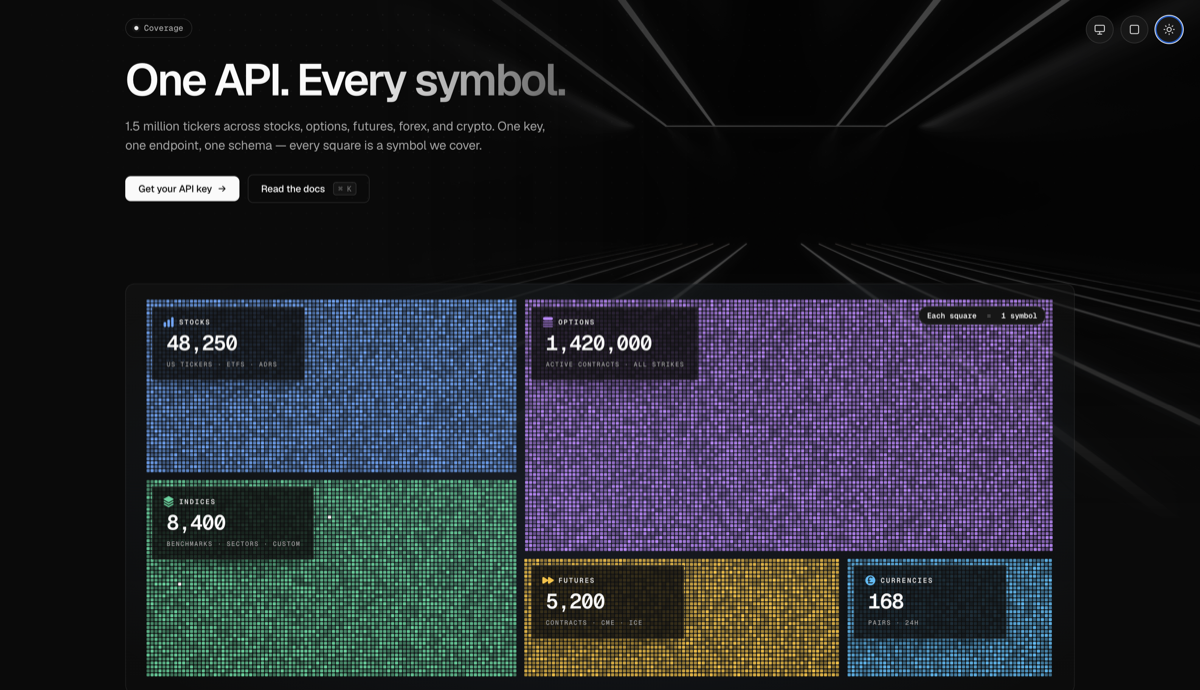
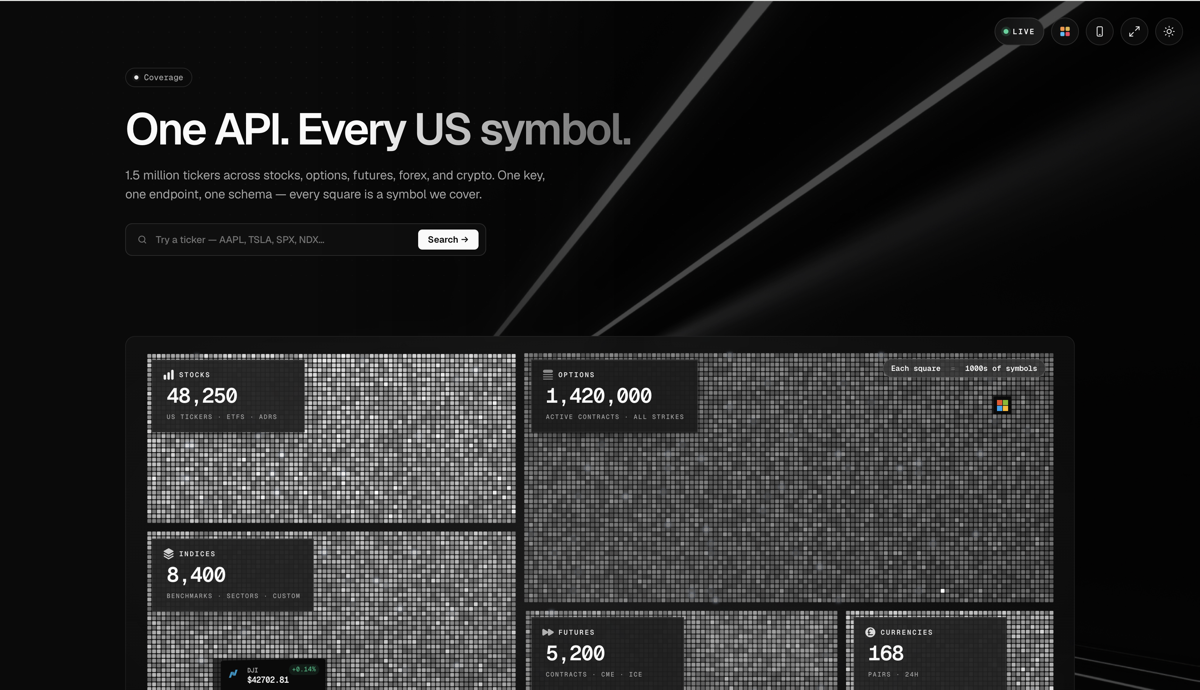
Update social preview image; cache-bust og:image (v=2)

diff --git a/index.html b/index.html
@@ -9,14 +9,14 @@
 <meta property="og:description" content="1.5 million tickers across stocks, options, futures, forex, and crypto. One key, one endpoint, one schema.">
 <meta property="og:type" content="website">
 <meta property="og:url" content="https://massive-symbol-universe.vercel.app/">
-<meta property="og:image" content="https://massive-symbol-universe.vercel.app/og-share.png">
+<meta property="og:image" content="https://massive-symbol-universe.vercel.app/og-share.png?v=2">
 <meta property="og:image:type" content="image/png">
 <meta property="og:image:width" content="1200">
 <meta property="og:image:height" content="690">
 <meta name="twitter:card" content="summary_large_image">
 <meta name="twitter:title" content="One API. Every US symbol. — Massive">
 <meta name="twitter:description" content="1.5 million tickers across stocks, options, futures, forex, and crypto. One key, one endpoint, one schema.">
-<meta name="twitter:image" content="https://massive-symbol-universe.vercel.app/og-share.png">
+<meta name="twitter:image" content="https://massive-symbol-universe.vercel.app/og-share.png?v=2">
 <script>(function(){var s=localStorage.getItem('massive-viewport');var n=window.matchMedia('(max-width: 820px)').matches;var m=s||(n?'mobile':'desktop');var h=document.documentElement;if(m==='mobile')h.classList.add('mobile-mode');if(s)h.classList.add('viewport-forced');var t=localStorage.getItem('massive-theme-v2');if(t!=='light')h.setAttribute('data-theme','dark');h.setAttribute('data-palette',localStorage.getItem('massive-palette')||'mono');})();</script>
 <link rel="preconnect" href="https://fonts.googleapis.com/">
 <link rel="preconnect" href="https://fonts.gstatic.com/" crossorigin>